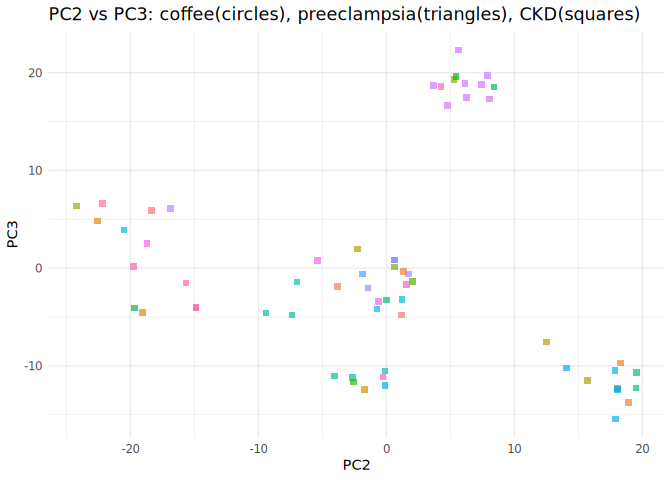
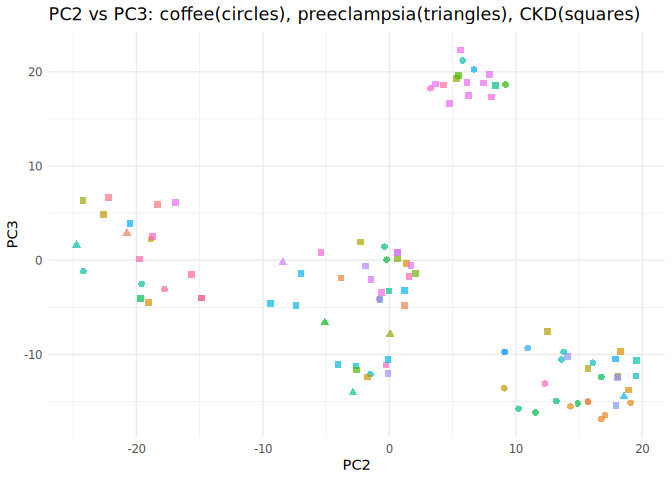
funy things

diff --git a/README.md b/README.md
@@ -33,7 +33,7 @@ library(ggplot2)
 # Use OpenRemoteParquetView to inspect the first few rows
 OpenRemoteParquetView()
 #> # Source:   table<embeddings> [?? x 6]
-#> # Database: DuckDB 1.4.0 [root@Linux 6.8.0-78-generic:R 4.5.1//tmp/RtmpUHS4c6/file8b2d1b920680.duckdb]
+#> # Database: DuckDB 1.4.0 [root@Linux 6.8.0-78-generic:R 4.5.1//tmp/RtmppfBSlV/file8b7e562bbb52.duckdb]
 #>    chrom pos       ref_UKB alt_UKB rsid       embedding    
 #>    <chr> <chr>     <chr>   <chr>   <chr>      <list>       
 #>  1 5     148899362 T       G       rs4705280  <dbl [3,072]>
@@ -58,7 +58,7 @@ CopyParquetToDuckDB(db_path = "local_embeddings.duckdb", overwrite = FALSE)
 )
 #> Database file 'local_embeddings.duckdb' already exists. Skipping copy.
 #>    user  system elapsed 
-#>   0.032   0.001   0.029
+#>   0.024   0.007   0.028
 file.info("local_embeddings.duckdb")$size
 #> [1] 12106084352
 ```
@@ -75,7 +75,7 @@ overwrite = FALSE)
 #> local_embeddings.houba.desc already exists.
 #> Using existing houba file and info data.
 #>    user  system elapsed 
-#>   0.566   0.048   0.571
+#>   0.562   0.052   0.574
 houba
 #> Houba mmatrix file: local_embeddings.houba 
 #> Embeddings (houba::mmatrix):
@@ -116,7 +116,7 @@ system.time(
 #> Dimensions: 616386 x 3072
 #> Running PCA with center=TRUE, scale=TRUE, ncomp=15
 #>    user  system elapsed 
-#> 359.066 113.503  54.381
+#> 360.378 115.586  55.125
 ```
 
 ## 5. Get PCA scores
@@ -190,25 +190,16 @@ preeclampsia_snps <- subset(plotDf, !is.na(gen_preeclampsia))|>
         unique()
 ckd_snps <- subset(plotDf, !is.na(gen_ckd)) |>
         unique()
+
 # Plot: coffee SNPs as circles, preeclampsia SNPs as triangles, CKD SNPs as squares
 plot_pc_pair <- function(pc_x, pc_y, title) {
-  ggplot(coffee_snps, aes(x = .data[[pc_x]], y = .data[[pc_y]], color = .data[["gen_coffee"]])) +
-    geom_point(shape = 16, size = 2, alpha = 0.7) +
-    labs(title = title, x = pc_x, y = pc_y) +
-    theme_minimal() +
-    theme(legend.position = "none")
-
-  ggplot(preeclampsia_snps, aes(x = .data[[pc_x]], y = .data[[pc_y]], color = .data[["gen_preeclampsia"]])) +
-    geom_point(shape = 17, size = 2, alpha = 0.7) +
-    labs(title = title, x = pc_x, y = pc_y) +
-    theme_minimal() +
-    theme(legend.position = "none")
-
-  ggplot(ckd_snps, aes(x = .data[[pc_x]], y = .data[[pc_y]], color = .data[["gen_ckd"]])) +
-    geom_point(shape = 15, size = 2, alpha = 0.7) +
-    labs(title = title, x = pc_x, y = pc_y) +
-    theme_minimal() +
-    theme(legend.position = "none")
+ggplot() +
+  geom_point(data = coffee_snps, aes(x = .data[[pc_x]], y = .data[[pc_y]], color = .data[["gen_coffee"]]), shape = 16, size = 2, alpha = 0.7) +
+  geom_point(data = preeclampsia_snps, aes(x = .data[[pc_x]], y = .data[[pc_y]], color = .data[["gen_preeclampsia"]]), shape = 17, size = 2, alpha = 0.7) +
+  geom_point(data = ckd_snps, aes(x = .data[[pc_x]], y = .data[[pc_y]], color = .data[["gen_ckd"]]), shape = 15, size = 2, alpha = 0.7) +
+  labs(title = title, x = pc_x, y = pc_y) +
+  theme_minimal() +
+  theme(legend.position = "none")
 }
 plot_pc_pair("PC1", "PC2", "PC1 vs PC2: coffee(circles), preeclampsia(triangles), CKD(squares) ")
 ```
